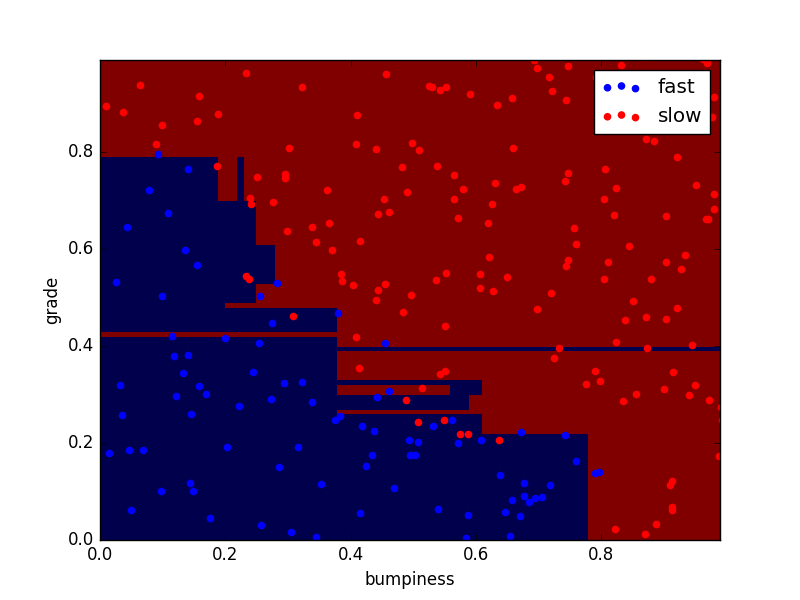
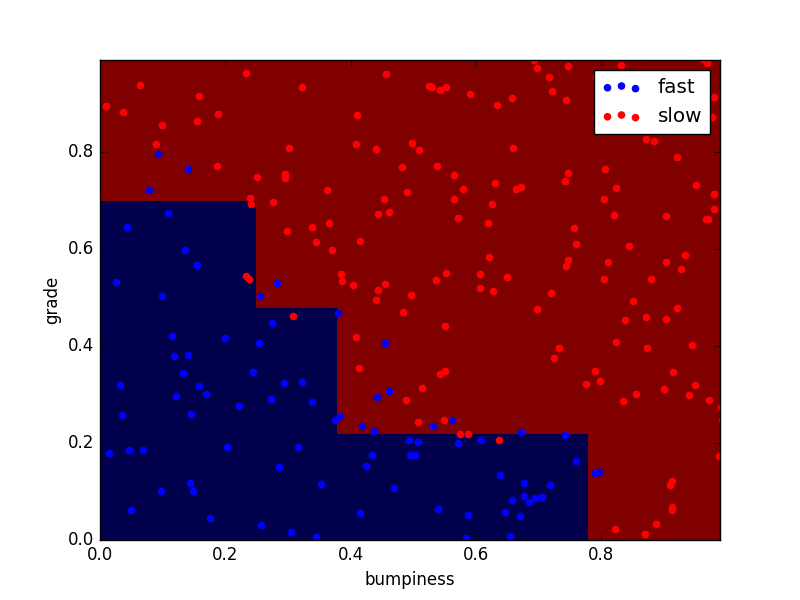
Fixed a mistake on lecture three.

diff --git a/decision_tree/dt_author_id.py b/decision_tree/dt_author_id.py
@@ -24,7 +24,7 @@ print "number of selected features:", len(features_train[0])
 #########################################################
 ### your code goes here ###
 
-#"""
+"""
 from sklearn import tree
 clf = tree.DecisionTreeClassifier(min_samples_split=40)
 
@@ -38,7 +38,7 @@ print "accuracy:", clf.score(features_test, labels_test)
 #########################################################
 ## Test decision tree on speed and bumpiness sample
 
-"""
+#"""
 sys.path.append("../choose_your_own/")
 from class_vis import prettyPicture, output_image
 from prep_terrain_data import makeTerrainData
@@ -48,10 +48,8 @@ features_train, labels_train, features_test, labels_test = makeTerrainData()
 print "number of selected features:", len(features_train[0])
 
 from sklearn import tree
-#n = 2
-n = 50
 
-clf = tree.DecisionTreeClassifier(min_samples_split=2)
+clf = tree.DecisionTreeClassifier(min_samples_split=50)
 clf.fit(features_train, labels_train)
 
 prettyPicture(clf, features_test, labels_test)
